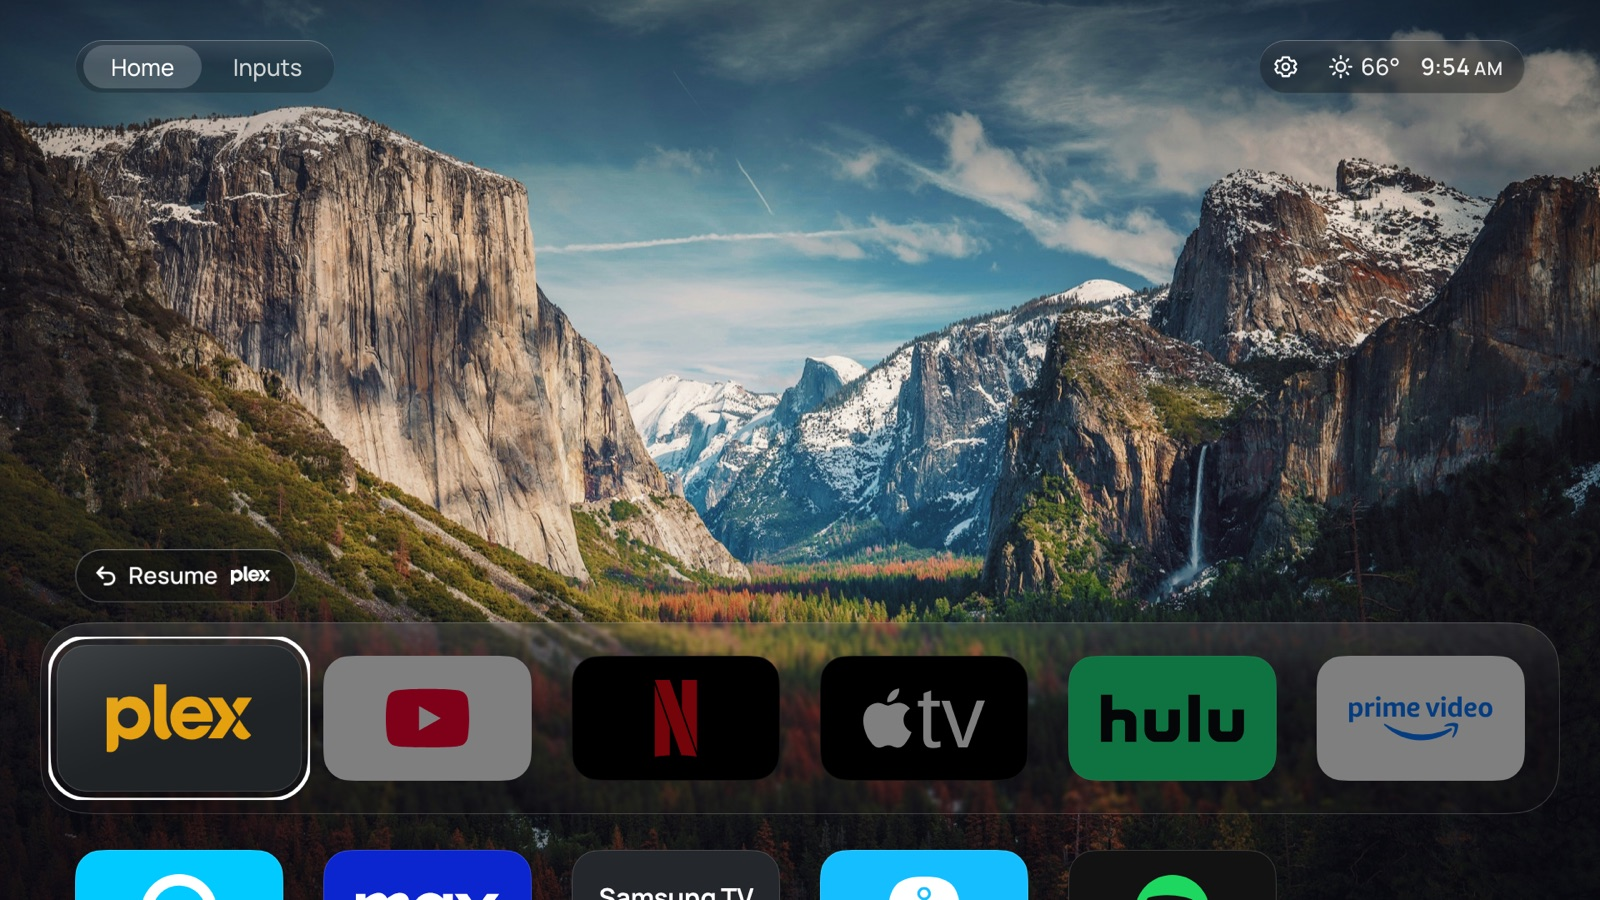
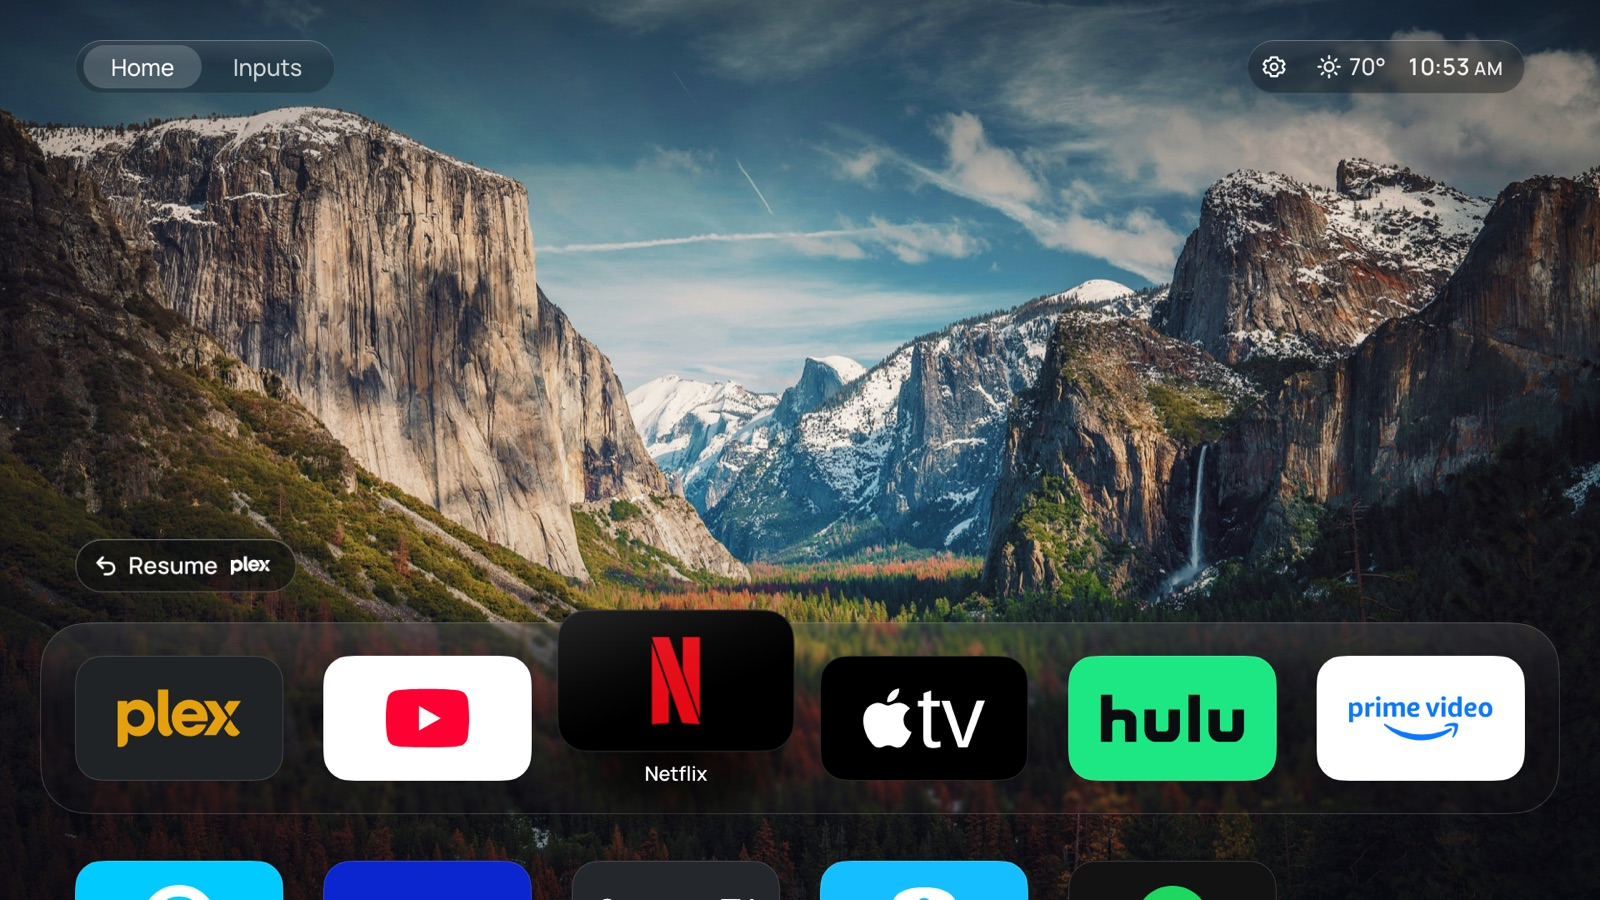
feat(app): lift the focused dock app past the dock with its name inside
The focused dock tile rises past the dock's top edge over a dark drop
shadow, and its name sits inside the dock on the other tiles' bottom edge.
App names drop to 24px on Home and 22px in the Apps editor, the Resume pill
moves up 12px to clear a lifted first tile, and the library peeks 13px
less.

diff --git a/app/app.css b/app/app.css
@@ -97,7 +97,7 @@ body{font-family:Manrope,Arial,sans-serif;-webkit-font-smoothing:antialiased}
 .in-tiles,.tab-inputs .fav-tiles{opacity:0;pointer-events:none}
 .tab-inputs .in-tiles{opacity:1;pointer-events:auto}
 
-.library{position:absolute;left:90px;top:1020px;width:1740px;transition:opacity 160ms linear}
+.library{position:absolute;left:90px;top:1033px;width:1740px;transition:opacity 160ms linear}
 .tab-inputs .library{opacity:0;pointer-events:none}
 .lib-row{position:absolute;left:0;width:1740px;height:150px;transition:opacity 200ms linear}
 .lib-row.is-above{opacity:0}
@@ -111,6 +111,10 @@ body{font-family:Manrope,Arial,sans-serif;-webkit-font-smoothing:antialiased}
 .t-face .rim{stroke:rgba(255,255,255,.16)}
 .tile.is-focus{transform:scale(1.18);z-index:1}
 .tile.is-focus::before,.tile.is-focus .t-sheen{opacity:1}
+/* A focused dock app lifts past the dock's top edge over a dark drop shadow; its name shows inside the dock. */
+.fav-tiles .tile::before{transition:opacity var(--focus-t) linear,transform var(--focus-t) var(--glide)}
+.fav-tiles .tile.is-focus{transform:translate3d(0,-45px,0) scale(1.14)}
+.fav-tiles .tile.is-focus::before{left:-4%;right:-4%;background:radial-gradient(closest-side,rgba(0,0,0,.9),rgba(0,0,0,.6) 50%,rgba(0,0,0,0));transform:translate3d(0,36px,0) scale(1.04,1.05)}
 /* Move on Home: the carried app stays on top; an app crossing between dock and library travels above the rest. */
 .tile.is-travel{z-index:2;transition-duration:var(--scroll-t)}
 .is-moving .tile.is-focus{z-index:3}
@@ -149,7 +153,7 @@ body{font-family:Manrope,Arial,sans-serif;-webkit-font-smoothing:antialiased}
 .in-tile.is-focus .t-face::before{opacity:1}
 .in-port,.in-name{position:relative}
 
-.focus-name{position:absolute;left:0;top:0;width:420px;text-align:center;font-size:28px;line-height:36px;font-weight:600;letter-spacing:-.2px;color:#fff;text-shadow:0 1px 3px rgba(0,0,0,.5);white-space:nowrap;overflow:hidden;text-overflow:ellipsis;opacity:0;transition:opacity 120ms linear;z-index:2}
+.focus-name{position:absolute;left:0;top:0;width:420px;text-align:center;font-size:24px;line-height:30px;font-weight:600;letter-spacing:-.2px;color:#fff;text-shadow:0 1px 3px rgba(0,0,0,.5);white-space:nowrap;overflow:hidden;text-overflow:ellipsis;opacity:0;transition:opacity 120ms linear;z-index:2}
 .focus-name.is-on{opacity:1}
 
 /* ---------- Panels and dialogs sit over a dimmed page; the top bar stays readable ---------- */
@@ -233,7 +237,7 @@ body{font-family:Manrope,Arial,sans-serif;-webkit-font-smoothing:antialiased}
 .ed-slot.is-above,.ed-fav.is-above,.ed-label.is-above{opacity:0}
 .ed-slot.is-carry{z-index:2}
 /* The focused app's name becomes a solid pill, the same focus language as rows and buttons. */
-.ed-name{position:absolute;left:-24px;top:166px;z-index:2;width:298px;text-align:center;font-size:26px;line-height:32px;font-weight:500;color:var(--ink-soft);text-shadow:0 1px 3px rgba(0,0,0,.45);white-space:nowrap;transition:opacity 160ms linear}
+.ed-name{position:absolute;left:-24px;top:166px;z-index:2;width:298px;text-align:center;font-size:22px;line-height:28px;font-weight:500;color:var(--ink-soft);text-shadow:0 1px 3px rgba(0,0,0,.45);white-space:nowrap;transition:opacity 160ms linear}
 .ed-name span{display:inline-block;max-width:298px;padding:0 14px;border-radius:16px;overflow:hidden;text-overflow:ellipsis;vertical-align:top;transition:background-color 140ms linear,color 140ms linear}
 .ed-slot.is-focus .ed-name span{background:var(--solid);color:var(--solid-ink);text-shadow:none}
 .ed-slot.is-carry .ed-name,.ed-slot.is-low .ed-name{opacity:0}
@@ -329,8 +333,8 @@ body{font-family:Manrope,Arial,sans-serif;-webkit-font-smoothing:antialiased}
 
 
 /* Resume: a pill just above the dock's left end with the last app's logo mark in white, so it never reads as a
-   second copy of a dock tile. Fades out as the library scrolls in. */
-.resume{position:absolute;left:90px;top:659px;opacity:0;pointer-events:none;transition:opacity 160ms linear;will-change:opacity}
+   second copy of a dock tile. It clears a lifted first dock tile by 20px. Fades out as the library scrolls in. */
+.resume{position:absolute;left:90px;top:647px;opacity:0;pointer-events:none;transition:opacity 160ms linear;will-change:opacity}
 .has-resume:not(.is-library) .resume{opacity:1;pointer-events:auto}
 .re-btn{position:relative;display:flex;align-items:center;height:64px;padding:0 28px 0 22px;border-radius:32px;background:rgba(10,12,14,var(--plate-tint,.56));color:#fff;transform-origin:0 50%;transition:transform var(--focus-t) var(--glide),color 140ms linear;will-change:transform}
 .re-btn::before{content:"";position:absolute;left:0;top:0;right:0;bottom:0;border-radius:inherit;background:var(--solid);opacity:0;transition:opacity 140ms linear}

diff --git a/app/app.js b/app/app.js
@@ -15,7 +15,9 @@
   // Favourites and library share six columns starting at the 90px side margin.
   var TILE_W = 250, TILE_H = 150, TILE_R = 32, PITCH = 298, COLS = 6, GRID_LEFT = 90;
   var DOCK_W = 1824, DOCK_H = 230, DOCK_R = 56, DOCK_TOP = 747;
-  var LIB_TOP = 1020, ROW_PITCH = 236, LABEL_GAP = 24, LABEL_H = 36, ROW_SPAN = TILE_H + LABEL_GAP + LABEL_H;
+  // The focused dock app lifts past the dock's top edge; its name sits in the dock, its baseline on the other tiles' bottoms.
+  var DOCK_NAME_Y = 40 + TILE_H - 24;
+  var LIB_TOP = 1033, ROW_PITCH = 236, LABEL_GAP = 24, LABEL_H = 36, ROW_SPAN = TILE_H + LABEL_GAP + LABEL_H;
   var TOP_LINE = 152, SAFE_BOTTOM = 1026, TOP_EDGE = 140;
   var SHALLOW = TOP_LINE - DOCK_TOP; // The dock sits just below the top bar while the first library rows show.
   var DEEP_ROWS = Math.floor((SAFE_BOTTOM - TOP_LINE - ROW_SPAN) / ROW_PITCH) + 1; // Rows that fit once the dock scrolls away.
@@ -329,14 +331,15 @@
     for (r = 0; r < ROWS.length; r++) toggle(library.children[r], 'is-above', rowTop(r) + t < TOP_EDGE);
   }
   function layoutZone() { return S.zone === 'menu' ? S.menuFrom : S.zone === 'move' ? S.mv.c.sec : S.zone; }
+  // The focused app's name: inside the dock under a lifted favourite, or under a library tile.
   function label() {
-    var on = layoutZone() === 'lib', a, x;
+    var z = layoutZone(), dock = z === 'fav', on = dock || z === 'lib', a, x;
     toggle(focusName, 'is-on', on);
     if (!on) return;
-    a = ROWS[S.lr][S.lc];
-    x = GRID_LEFT + S.lc * PITCH + TILE_W / 2 - 210;
+    a = dock ? FAVS[S.fav] : ROWS[S.lr][S.lc];
+    x = GRID_LEFT + (dock ? S.fav : S.lc) * PITCH + TILE_W / 2 - 210;
     focusName.textContent = a.name;
-    focusName.style.transform = 'translate3d(' + x + 'px,' + (rowTop(S.lr) + TILE_H + LABEL_GAP) + 'px,0)';
+    focusName.style.transform = 'translate3d(' + x + 'px,' + (dock ? DOCK_TOP + DOCK_NAME_Y : rowTop(S.lr) + TILE_H + LABEL_GAP) + 'px,0)';
   }
   function render() {
     var el, entered, i;

diff --git a/docs/home-redesign.md b/docs/home-redesign.md
@@ -32,8 +32,8 @@ Goals: no ads, no apps the owners don't use, no autoplay, a fast feel on the TV,
 - **Top left:** nav pills on a semi-transparent bar that the photo clearly shows through. Tabs: **Home** and **Inputs**. A translucent indicator marks the active tab and a solid one marks focus. Both slide between pills rather than jumping.
 - **Top right:** one semi-transparent capsule holding the Settings button, the weather (icon and temperature, see Weather) and the time in the corner, with equal gaps between all three. Weather and time can't be focused. Settings is the only focusable item there.
 - **Resume pill:** a capsule just above the left end of the dock: a return arrow, **Resume** and the logo of the app last opened from Home in white, or the app's name when Home has no logo for it. It never repeats the app's full tile, so it doesn't read as a second copy of a dock app (Kyle, 2 November 2026). Focused, it turns solid like the nav pills. OK reopens the app. If it is still running in the background it returns where it was, otherwise it starts again. The pill appears after the first launch from Home, only knows apps opened there and never offers a hidden app. A live preview of an app isn't possible, because Tizen gives web apps no view of other apps' screens.
-- **Favourites dock:** a near-full-width semi-transparent bar, after the tvOS dock, holding at most 6 apps so it never scrolls sideways. The focused app grows (about 1.18×), lifts a shadow, catches a sheen. A white ring and darkening the other dock apps were tried and rejected (Kyle, 2 November 2026); a clearer focus mark for the dock is still being designed.
-- **Library:** every installed app that isn't a favourite and isn't hidden, in the owner's order (Move, below), 6 per row in the same columns as the dock. A save from before the library had an order starts A–Z. Apps installed later join at the end, and an app leaving the dock goes to the top (Kyle, 2 November 2026). At rest about 40% of the first row peeks above the bottom edge. The focused app's name appears below it.
+- **Favourites dock:** a near-full-width semi-transparent bar, after the tvOS dock, holding at most 6 apps so it never scrolls sideways. The focused app lifts so its top overhangs the dock's top edge, grows to 1.14× over a dark drop shadow and catches a sheen, and its name appears inside the dock with its baseline on the other apps' bottom edge. A white ring, darkening the other apps, dots, a bar and a glow were tried and rejected (Kyle, 2 November 2026). App names are small (24 px on Home, 22 px in the Apps editor): the logo identifies the app, the name only confirms it.
+- **Library:** every installed app that isn't a favourite and isn't hidden, in the owner's order (Move, below), 6 per row in the same columns as the dock. A save from before the library had an order starts A–Z. Apps installed later join at the end, and an app leaving the dock goes to the top (Kyle, 2 November 2026). At rest about the top 47px of the first row peeks above the bottom edge (Kyle, 2 November 2026). The focused app's name appears below it.
 - **App list and icons:** the TV supplies the list of installed apps, as CleanFrame's `device.js` already does, leaving out Samsung's internal ones. An app with a bundled logo (Simple Icons or Custom Brand Icons, single colour on its brand-coloured tile) shows that logo. Any other app shows the TV's own icon for it, or its name if that icon can't load. Home reads the list again whenever it comes back to the front, so apps installed meanwhile appear in the library on their own.
 - **Shapes:** tiles, the dock, panels and dialogs use squircle (continuous-curvature) corners. Capsules keep fully rounded ends.
 - **Sounds:** a soft, quiet tick when focus moves and a slightly fuller one on OK, synthesized from low-passed noise so they add no files. The TV's own menu sounds (`tizen.tvaudiocontrol`) were tried but are loud with no volume control, so they aren't used; the owners wanted the sound much quieter. On this TV, Web Audio adds about 0.1 s of delay, accepted for now. V1 has no switch to turn them off.
